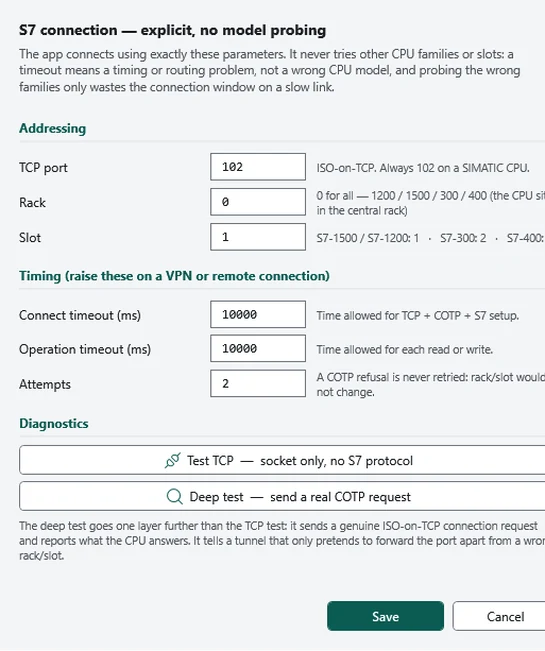
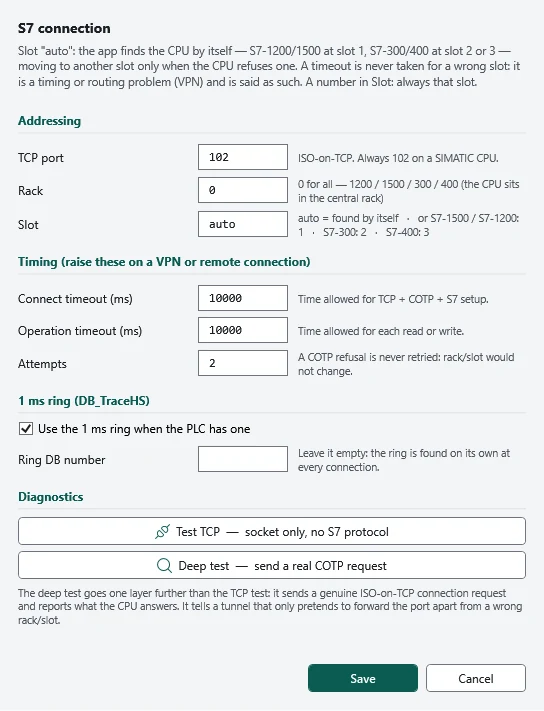
Site: PLC Trace Viewer 2.1.12 (setup, version, size; S7 setup picture with slot auto; recording protection, web Stop, slot auto in datasheet, home, quick start and FAQ)

diff --git a/index.html b/index.html
@@ -28,7 +28,7 @@
   "name":"PlcTraceViewer",
   "applicationCategory":"EngineeringApplication",
   "operatingSystem":"Windows 10, Windows 11 (64-bit)",
-  "softwareVersion":"2.1.11",
+  "softwareVersion":"2.1.12",
   "author":{"@type":"Person","name":"Leonardo Dogariu"},
   "description":"Signal recorder and analyser for S7-300, 400, 1200 and 1500 PLCs: acquisition over PUT/GET, OPC UA and S7comm-Plus, recording with the real read time of every sample, analysis with markers, statistics and 94 functions for computed signals.",
   "offers":{"@type":"Offer","price":"0","priceCurrency":"EUR","description":"Free edition; PRO features enabled by a licence file, activated without internet"}
@@ -39,7 +39,7 @@
 
 <header class="top">
   <div class="wrap">
-    <a class="brand" href="index.html"><img src="assets/img/ptv-mark-64.png" width="30" height="30" alt=""><span>PlcTraceViewer</span><small>2.1.11</small></a>
+    <a class="brand" href="index.html"><img src="assets/img/ptv-mark-64.png" width="30" height="30" alt=""><span>PlcTraceViewer</span><small>2.1.12</small></a>
     <nav>
       <a href="#prodotto" data-it>Prodotto</a><a href="#prodotto" data-en>Product</a>
       <a href="#analisi" data-it>Analisi</a><a href="#analisi" data-en>Analysis</a>
@@ -119,7 +119,7 @@
 <section class="plate-sec">
   <div class="wrap">
     <dl class="plate">
-      <div class="id"><img src="assets/img/ptv-mark-64.png" alt=""><div><b>PlcTraceViewer</b><span><span data-it>versione</span><span data-en>version</span> 2.1.11</span></div></div>
+      <div class="id"><img src="assets/img/ptv-mark-64.png" alt=""><div><b>PlcTraceViewer</b><span><span data-it>versione</span><span data-en>version</span> 2.1.12</span></div></div>
       <div><dt>CPU</dt><dd>S7-300 · 400 · 1200 · 1500</dd></div>
       <div><dt data-it>Collegamento</dt><dt data-en>Connection</dt><dd>PUT/GET · OPC UA · S7comm-Plus</dd></div>
       <div><dt data-it>Progetti TIA</dt><dt data-en>TIA projects</dt><dd>V16 → V21</dd></div>
@@ -553,9 +553,9 @@
       <figure>
         <div class="win flat" style="max-width:440px">
           <div class="win-bar"><img src="assets/img/ptv-mark-64.png" alt=""><span data-it>Collegamento S7</span><span data-en>S7 connection</span><span class="c"><i></i><i></i><i></i></span></div>
-          <img src="assets/img/dialog-s7.webp" width="545" height="651" loading="lazy" decoding="async" data-zoom="assets/img/dialog-s7.webp" alt="S7 connection settings: TCP port, rack, slot, connect and operation timeouts, attempts, TCP test and deep test.">
+          <img src="assets/img/dialog-s7.webp" width="544" height="711" loading="lazy" decoding="async" data-zoom="assets/img/dialog-s7.webp" alt="S7 connection settings: TCP port, rack, slot auto, connect and operation timeouts, attempts, the 1 ms ring, TCP test and deep test.">
         </div>
-        <figcaption><span data-it>Parametri espliciti: il programma non prova a caso altre famiglie di CPU o altri slot.</span><span data-en>Explicit parameters: the program does not guess other CPU families or slots.</span></figcaption>
+        <figcaption><span data-it>Slot &laquo;auto&raquo;: S7-300 o S7-1500, la CPU si riconosce da sola. Un tempo scaduto non viene mai scambiato per uno slot sbagliato.</span><span data-en>Slot &ldquo;auto&rdquo;: S7-300 or S7-1500, the CPU is recognised by itself. A timeout is never taken for a wrong slot.</span></figcaption>
       </figure>
     </div>
   </div>
@@ -581,12 +581,12 @@
         <h3 id="web" style="margin-top:56px"><span data-it>Valori e registrazione dal browser</span><span data-en>Values and recording from a browser</span><span class="pro">PRO</span></h3>
         <p style="color:var(--ink-2)" data-it>Un servizio di Windows pubblica una pagina accessibile da qualsiasi PC della rete di impianto: valori in tempo reale, andamento recente, stato del disco, avvio e arresto della registrazione.</p>
         <p style="color:var(--ink-2)" data-en>A Windows service publishes a page that any PC on the plant network can open: live values, recent trend, disk status, start and stop of the recording.</p>
-        <p style="color:var(--ink-2)" data-it><strong>La registrazione avviata dalla pagina è la stessa dell'applicazione</strong>, non una copia separata: un solo registratore e un solo file.</p>
-        <p style="color:var(--ink-2)" data-en><strong>The recording started from the page is the application's own</strong>, not a separate copy: one recorder and one file.</p>
+        <p style="color:var(--ink-2)" data-it><strong>La registrazione avviata dalla pagina è la stessa dell'applicazione</strong>, non una copia separata: un solo registratore e un solo file. Se la registrazione è protetta da password, anche lo stop dalla pagina la chiede.</p>
+        <p style="color:var(--ink-2)" data-en><strong>The recording started from the page is the application's own</strong>, not a separate copy: one recorder and one file. When the recording is protected by a password, stopping it from the page asks for it too.</p>
         <div class="note warn">
           <b data-it>Solo su una rete di impianto protetta.</b><b data-en>Only on a protected plant network.</b>
-          <span data-it> La pagina non ha autenticazione: chiunque raggiunga la porta vede i valori e può avviare o fermare la registrazione. Non va esposta a internet.</span>
-          <span data-en> The page has no authentication: anyone who can reach the port sees the values and can start or stop the recording. It must not be exposed to the internet.</span>
+          <span data-it> La pagina non ha autenticazione: chiunque raggiunga la porta vede i valori e può avviare la registrazione, e fermarla se non è protetta da password. Non va esposta a internet.</span>
+          <span data-en> The page has no authentication: anyone who can reach the port sees the values and can start the recording, and stop it unless it is protected by a password. It must not be exposed to the internet.</span>
         </div>
         <figure style="max-width:440px">
           <div class="win flat"><img src="assets/img/tip-web.webp" width="440" height="94" loading="lazy" decoding="async" alt="In-app hint for the web dashboard button."></div>
@@ -708,15 +708,15 @@
         </li>
       </ol>
       <div class="dl-card">
-        <h3>PlcTraceViewer 2.1.11</h3>
+        <h3>PlcTraceViewer 2.1.12</h3>
         <p style="color:var(--ink-3);margin:0" data-it>Programma di installazione per Windows</p>
         <p style="color:var(--ink-3);margin:0" data-en>Windows installer</p>
         <dl class="meta">
-          <dt>File</dt><dd>PlcTraceViewer_Setup_v2.1.11.exe</dd>
-          <dt data-it>Dimensione</dt><dt data-en>Size</dt><dd><span data-it>90,2 MB</span><span data-en>90.2 MB</span></dd>
+          <dt>File</dt><dd>PlcTraceViewer_Setup_v2.1.12.exe</dd>
+          <dt data-it>Dimensione</dt><dt data-en>Size</dt><dd><span data-it>90,3 MB</span><span data-en>90.3 MB</span></dd>
           <dt data-it>Sistema</dt><dt data-en>System</dt><dd><span data-it>Windows 10 / 11, 64 bit · porta 102 verso la CPU</span><span data-en>Windows 10 / 11, 64-bit · port 102 to the CPU</span></dd>
         </dl>
-        <a class="btn" href="https://github.com/leo25122/PlcTraceViewer-site/releases/download/v2.1.11/PlcTraceViewer_Setup_v2.1.11.exe">
+        <a class="btn" href="https://github.com/leo25122/PlcTraceViewer-site/releases/download/v2.1.12/PlcTraceViewer_Setup_v2.1.12.exe">
           <svg viewBox="0 0 24 24" fill="none" stroke="currentColor" stroke-width="2" stroke-linecap="round" stroke-linejoin="round"><path d="M12 4v11m0 0 4.5-4.5M12 15l-4.5-4.5M5 20h14"/></svg>
           <span data-it>Scarica per Windows</span><span data-en>Download for Windows</span>
         </a>

diff --git a/datasheet.html b/datasheet.html
@@ -27,7 +27,7 @@
 
 <header class="top">
   <div class="wrap">
-    <a class="brand" href="index.html"><img src="assets/img/ptv-mark-64.png" width="26" height="26" alt=""><span>PlcTraceViewer</span><small>2.1.11</small></a>
+    <a class="brand" href="index.html"><img src="assets/img/ptv-mark-64.png" width="26" height="26" alt=""><span>PlcTraceViewer</span><small>2.1.12</small></a>
     <nav>
       <a href="index.html">Home</a>
       <a href="quickstart.html" data-it>Guida rapida</a><a href="quickstart.html" data-en>Quick start</a>
@@ -67,7 +67,7 @@
 
     <table class="doc-meta">
       <tr><th data-it>Documento</th><th data-en>Document</th><td>DS-PTV-21</td></tr>
-      <tr><th data-it>Versione del programma</th><th data-en>Program version</th><td>2.1.11</td></tr>
+      <tr><th data-it>Versione del programma</th><th data-en>Program version</th><td>2.1.12</td></tr>
       <tr><th data-it>Piattaforma</th><th data-en>Platform</th><td>Windows 10 / 11, 64 bit</td></tr>
       <tr><th data-it>Controllori</th><th data-en>Controllers</th><td>S7-300 / 400 / 1200 / 1500</td></tr>
     </table>
@@ -153,8 +153,8 @@
             <tr><td data-it>Trasporto</td><td data-en>Transport</td><td>ISO-on-TCP<span data-it>, porta 102 (configurabile)</span><span data-en>, port 102 (configurable)</span></td></tr>
             <tr>
               <td data-it>Parametri</td><td data-en>Parameters</td>
-              <td data-it>famiglia CPU, rack, slot, porta, timeout di connessione e di operazione, numero di tentativi</td>
-              <td data-en>CPU family, rack, slot, port, connect and operation timeouts, number of attempts</td>
+              <td data-it>rack, slot (con &laquo;auto&raquo; la CPU si riconosce da sola: S7-300/400 o S7-1200/1500, dal suo codice d'ordine), porta, timeout di connessione e di operazione, numero di tentativi</td>
+              <td data-en>rack, slot (with &ldquo;auto&rdquo; the CPU is recognised by itself: S7-300/400 or S7-1200/1500, from its order number), port, connect and operation timeouts, number of attempts</td>
             </tr>
             <tr>
               <td data-it>Aree leggibili</td><td data-en>Readable areas</td>
@@ -335,6 +335,12 @@
             <tr><td data-it>Gestione dello spazio</td><td data-en>Space management</td>
               <td data-it>conservazione per durata o per spazio; i file più vecchi vengono compressi prima di essere eliminati; la registrazione in corso non viene mai toccata</td>
               <td data-en>retention by age or by space; the oldest files are compressed before being deleted; the recording in progress is never touched</td></tr>
+            <tr><td data-it>Protezione della registrazione</td><td data-en>Recording protection</td>
+              <td data-it>password facoltativa per fermare una registrazione (STOP, scollegamento, chiusura della finestra, Stop dalla dashboard, disconnessione di Windows); spenta finché non viene impostata; dimenticata, si toglie solo a registrazione ferma; tutto senza internet</td>
+              <td data-en>optional password to stop a recording (STOP, disconnect, closing the window, Stop on the dashboard, signing out of Windows); off until one is set; if forgotten, it can be removed only while nothing records; no internet needed</td></tr>
+            <tr><td data-it>Sospensione e sessione di Windows</td><td data-en>Sleep and the Windows session</td>
+              <td data-it>durante la registrazione il PC non va in sospensione da solo; blocco dello schermo e cambio utente non la fermano; al risveglio da una sospensione scelta a mano la lettura riprende da sola e il tempo trascorso resta un vuoto nel file</td>
+              <td data-en>while recording the PC does not go to sleep on its own; locking the screen or switching user does not stop it; after a sleep chosen by hand the reading resumes by itself and the time elapsed stays a gap in the file</td></tr>
             <tr><td data-it>Formati letti</td><td data-en>Formats read</td>
               <td class="mono">.drug · .drug.gz · .csv · .txt</td></tr>
           </table>
@@ -443,8 +449,8 @@
               <td data-it>HTTP sulla porta 8085 (configurabile)</td>
               <td data-en>HTTP on port 8085 (configurable)</td></tr>
             <tr><td data-it>Funzioni</td><td data-en>Functions</td>
-              <td data-it>valori in tempo reale, andamento recente, selezione dei segnali, avvio e arresto della registrazione, stato del disco</td>
-              <td data-en>live values, recent trend, signal selection, start and stop of the recording, disk status</td></tr>
+              <td data-it>valori in tempo reale, andamento recente, selezione dei segnali, avvio e arresto della registrazione (lo stop chiede la password se la registrazione è protetta), stato del disco</td>
+              <td data-en>live values, recent trend, signal selection, start and stop of the recording (stop asks for the password when the recording is protected), disk status</td></tr>
             <tr><td data-it>Autenticazione</td><td data-en>Authentication</td>
               <td data-it>nessuna: solo per reti di impianto protette</td>
               <td data-en>none: for protected plant networks only</td></tr>
@@ -453,8 +459,8 @@
           </table>
           <div class="note" style="margin-top:18px">
             <b data-it>Sicurezza.</b><b data-en>Security.</b>
-            <span data-it> La pagina non ha autenticazione: chiunque raggiunga la porta può vedere i valori e comandare la registrazione. Va usata su una rete di impianto protetta e non va esposta a internet.</span>
-            <span data-en> The page has no authentication: anyone who reaches the port can see the values and control the recording. Use it on a protected plant network and do not expose it to the internet.</span>
+            <span data-it> La pagina non ha autenticazione: chiunque raggiunga la porta può vedere i valori e avviare la registrazione; per fermare una registrazione protetta serve la sua password, che non viaggia sulla rete. Va usata su una rete di impianto protetta e non va esposta a internet.</span>
+            <span data-en> The page has no authentication: anyone who reaches the port can see the values and start the recording; stopping a protected recording needs its password, which does not travel over the network. Use it on a protected plant network and do not expose it to the internet.</span>
           </div>
         </article>
 

diff --git a/faq.html b/faq.html
@@ -21,7 +21,7 @@
 
 <header class="top">
   <div class="wrap">
-    <a class="brand" href="index.html"><img src="assets/img/ptv-mark-64.png" width="26" height="26" alt=""><span>PlcTraceViewer</span><small>2.1.11</small></a>
+    <a class="brand" href="index.html"><img src="assets/img/ptv-mark-64.png" width="26" height="26" alt=""><span>PlcTraceViewer</span><small>2.1.12</small></a>
     <nav>
       <a href="index.html">Home</a>
       <a href="quickstart.html" data-it>Guida rapida</a><a href="quickstart.html" data-en>Quick start</a>
@@ -185,6 +185,18 @@
               <details id="d-reinstallazione">
                 <summary><span data-it>Cosa succede se reinstallo Windows o cambio PC?</span><span data-en>What happens if I reinstall Windows or change PC?</span></summary>
                 <div class="a"><span data-it>Il codice macchina può cambiare e la licenza resta legata al codice del PC precedente. Invia una nuova richiesta dal portale con il nuovo codice e chiedi il trasferimento: la licenza precedente viene disattivata quando il trasferimento è completato. Sostituire un disco o aggiungere memoria non cambia il codice macchina. In una macchina virtuale il codice cambia anche quando la macchina virtuale viene copiata oppure spostata su un PC con un processore diverso.</span><span data-en>The Machine Code can change and the licence stays bound to the previous PC's code. Send a new request from the portal with the new code and ask for a transfer: the previous licence is disabled when the transfer is completed. Replacing a disk or adding memory does not change the Machine Code. In a virtual machine the code also changes when the virtual machine is copied, or moved to a PC with a different processor.</span></div>
+              </details>
+              <details id="d-protezione">
+                <summary><span data-it>Posso impedire che qualcuno fermi una registrazione?</span><span data-en>Can I stop someone from ending a recording?</span></summary>
+                <div class="a"><span data-it>Sì: in <b>Impostazioni → Live → Recording protection</b> spunta la casella e imposta una password (almeno 8 caratteri). Da quel momento STOP REC, lo scollegamento, la chiusura della finestra Live, lo Stop dalla dashboard web e la disconnessione di Windows chiedono la password; cinque password sbagliate bloccano il controllo per 30 secondi. Finché non c'è una password non viene chiesto nulla. Se la dimentichi, <b>I forgot the password…</b> toglie la protezione quando nessuna registrazione è in corso. Windows permette di chiedere, non di rifiutare: chiudere PTV dal Task Manager o spegnere il PC fermano comunque la registrazione, con i file chiusi interi quando Windows lo comunica.</span><span data-en>Yes: in <b>Settings → Live → Recording protection</b> tick the box and set a password (at least 8 characters). From then on STOP REC, Disconnect, closing the Live window, Stop on the web dashboard and signing out of Windows ask for it; five wrong passwords lock the check for 30 seconds. Until a password is set nothing is asked. If you forget it, <b>I forgot the password…</b> removes the protection while no recording is running. Windows lets an application ask, not refuse: ending PTV from the Task Manager or switching the PC off still end the recording, with the files closed whole whenever Windows says so.</span></div>
+              </details>
+              <details id="d-sospensione">
+                <summary><span data-it>Cosa succede se il PC va in sospensione o mi disconnetto da Windows?</span><span data-en>What happens if the PC goes to sleep or I sign out of Windows?</span></summary>
+                <div class="a"><span data-it>Durante una registrazione il PC non va in sospensione da solo. Una sospensione scelta a mano, l'ibernazione o la batteria scarica non si possono impedire: il PLC non viene letto nel frattempo, la lettura riprende da sola al risveglio e il tempo trascorso resta nel file come un vuoto, all'ora vera. Bloccare lo schermo o cambiare utente non ferma la registrazione. Disconnettersi o spegnere la ferma e chiude i file; con la protezione attiva Windows prima mostra l'avviso di PTV.</span><span data-en>While recording, the PC does not go to sleep on its own. A sleep chosen by hand, hibernation or a flat battery cannot be prevented: the PLC is not read meanwhile, reading resumes by itself on waking and the time elapsed stays in the file as a gap, at its real time. Locking the screen or switching user does not stop the recording. Signing out or shutting down stops it and closes the files; with the protection on, Windows first shows PTV's notice.</span></div>
+              </details>
+              <details id="d-slot">
+                <summary><span data-it>Devo impostare il modello di CPU, il rack e lo slot?</span><span data-en>Do I have to set the CPU model, rack and slot?</span></summary>
+                <div class="a"><span data-it>No: con lo slot su <b>auto</b> (il valore iniziale in S7 Setup) il programma trova da solo una S7-300/400 o una S7-1200/1500 e la riconosce dal suo codice d'ordine. Cambia slot solo quando la CPU ne rifiuta uno; un tempo scaduto, per esempio su una VPN lenta, viene detto come tale e non scambiato per uno slot sbagliato. Con un numero nel campo Slot si usa sempre quello.</span><span data-en>No: with Slot on <b>auto</b> (the default in S7 setup) the program finds an S7-300/400 or an S7-1200/1500 by itself and recognises it from its order number. It changes slot only when the CPU refuses one; a timeout, for example over a slow VPN, is reported as such and never taken for a wrong slot. With a number in Slot that slot is always used.</span></div>
               </details>
               <details id="d-guasto">
                 <summary><span data-it>Il PC si è guastato o ho perso il file della licenza: cosa faccio?</span><span data-en>The PC failed or I lost the licence file: what do I do?</span></summary>

diff --git a/quickstart.html b/quickstart.html
@@ -27,7 +27,7 @@
 
 <header class="top">
   <div class="wrap">
-    <a class="brand" href="index.html"><img src="assets/img/ptv-mark-64.png" width="26" height="26" alt=""><span>PlcTraceViewer</span><small>2.1.11</small></a>
+    <a class="brand" href="index.html"><img src="assets/img/ptv-mark-64.png" width="26" height="26" alt=""><span>PlcTraceViewer</span><small>2.1.12</small></a>
     <nav>
       <a href="index.html">Home</a>
       <a href="quickstart.html" class="here" data-it>Guida rapida</a><a href="quickstart.html" class="here" data-en>Quick start</a>
@@ -97,10 +97,10 @@
         <article class="doc-sec" id="installa">
           <h2 data-it>1. Installazione</h2><h2 data-en>1. Installation</h2>
           <p data-it>
-            Scarica <span class="mono">PlcTraceViewer_Setup_v2.1.11.exe</span> e avvialo. Se Windows SmartScreen segnala che l'editore non è riconosciuto, scegli <em>Ulteriori informazioni → Esegui comunque</em>: il file di installazione non è firmato con un certificato commerciale e si scarica dalla pagina delle release su GitHub.
+            Scarica <span class="mono">PlcTraceViewer_Setup_v2.1.12.exe</span> e avvialo. Se Windows SmartScreen segnala che l'editore non è riconosciuto, scegli <em>Ulteriori informazioni → Esegui comunque</em>: il file di installazione non è firmato con un certificato commerciale e si scarica dalla pagina delle release su GitHub.
           </p>
           <p data-en>
-            Download <span class="mono">PlcTraceViewer_Setup_v2.1.11.exe</span> and run it. If Windows SmartScreen reports that the publisher is not recognised, choose <em>More info → Run anyway</em>: the installer is not signed with a commercial certificate and is downloaded from the GitHub releases page.
+            Download <span class="mono">PlcTraceViewer_Setup_v2.1.12.exe</span> and run it. If Windows SmartScreen reports that the publisher is not recognised, choose <em>More info → Run anyway</em>: the installer is not signed with a commercial certificate and is downloaded from the GitHub releases page.
           </p>
           <p data-it>
             Il runtime è incluso nell'installazione. Se scegli di installare la dashboard web, il servizio viene registrato e avviato automaticamente. Per un aggiornamento, chiudi prima la versione precedente.
@@ -134,12 +134,12 @@
             Before pressing <em>Connect</em>, use <b>Test TCP</b> to check that port 102 is reachable. The <b>deep test</b> also sends an ISO-on-TCP connection request: it detects wrong rack and slot settings and tunnels that forward port 102 without an S7 CPU on the other side.
           </p>
           <figure class="shot" style="max-width:420px;margin-top:14px" data-zoom="assets/img/dialog-s7.webp">
-            <img src="assets/img/dialog-s7.webp" width="545" height="651" loading="lazy" decoding="async"
-                 alt="S7 connection settings: port, rack, slot, timeouts, attempts and the two connection tests.">
+            <img src="assets/img/dialog-s7.webp" width="544" height="711" loading="lazy" decoding="async"
+                 alt="S7 connection settings: port, rack, slot auto, timeouts, attempts, the 1 ms ring and the two connection tests.">
           </figure>
           <figcaption style="max-width:420px">
-            <span data-it>Slot 1 per S7-1500 e S7-1200, slot 2 per S7-300, slot 3 per S7-400. Rack 0 per tutte.</span>
-            <span data-en>Slot 1 for S7-1500 and S7-1200, slot 2 for S7-300, slot 3 for S7-400. Rack 0 for all.</span>
+            <span data-it>Slot &laquo;auto&raquo; (il valore iniziale): la CPU si riconosce da sola, S7-300 o S7-1500. Con un numero si usa sempre quello slot: 1 per S7-1500 e S7-1200, 2 per S7-300, 3 per S7-400. Rack 0 per tutte.</span>
+            <span data-en>Slot &ldquo;auto&rdquo; (the default): the CPU is recognised by itself, S7-300 or S7-1500. With a number that slot is always used: 1 for S7-1500 and S7-1200, 2 for S7-300, 3 for S7-400. Rack 0 for all.</span>
           </figcaption>
           <div class="note" style="margin-top:20px">
             <b data-it>Con VPN o collegamento remoto:</b><b data-en>With a VPN or a remote link:</b>
@@ -317,10 +317,10 @@
                  alt="In-app hint for opening the web dashboard.">
           </figure>
           <p data-it>
-            Il pulsante <b>Web</b> apre la pagina; il servizio è già attivo in background sulla porta 8085. Da qualsiasi PC della rete di impianto si vedono i valori correnti e si comanda la registrazione <b>dell'applicazione</b>, non una copia. La pagina non ha autenticazione: usala solo su una rete di impianto protetta.
+            Il pulsante <b>Web</b> apre la pagina; il servizio è già attivo in background sulla porta 8085. Da qualsiasi PC della rete di impianto si vedono i valori correnti e si comanda la registrazione <b>dell'applicazione</b>, non una copia; una registrazione protetta si ferma solo con la sua password. La pagina non ha autenticazione: usala solo su una rete di impianto protetta.
           </p>
           <p data-en>
-            The <b>Web</b> button opens the page; the service is already running in the background on port 8085. From any PC on the plant network you see the current values and control the recording <b>of the application</b>, not a copy. The page has no authentication: use it only on a protected plant network.
+            The <b>Web</b> button opens the page; the service is already running in the background on port 8085. From any PC on the plant network you see the current values and control the recording <b>of the application</b>, not a copy; a protected recording stops only with its password. The page has no authentication: use it only on a protected plant network.
           </p>
         </article>
 

diff --git a/404.html b/404.html
@@ -17,7 +17,7 @@
 
 <header class="top">
   <div class="wrap">
-    <a class="brand" href="/PlcTraceViewer-site/"><img src="/PlcTraceViewer-site/assets/img/ptv-mark-64.png" width="26" height="26" alt=""><span>PlcTraceViewer</span><small>2.1.11</small></a>
+    <a class="brand" href="/PlcTraceViewer-site/"><img src="/PlcTraceViewer-site/assets/img/ptv-mark-64.png" width="26" height="26" alt=""><span>PlcTraceViewer</span><small>2.1.12</small></a>
     <div class="tools" style="margin-left:auto">
       <div class="lang" role="group" aria-label="Lingua / Language">
         <button type="button" data-lang-btn="it" aria-pressed="true">IT</button><span>/</span><button type="button" data-lang-btn="en" aria-pressed="false">EN</button>

diff --git a/tools/build-assets.py b/tools/build-assets.py
@@ -56,7 +56,7 @@ JOBS = [
     ("analysis-summary",  S("161135"), (1694, 75,  1919,  800),  286),
 
     # ── dialogs and in-app help ────────────────────────────────────────────
-    ("dialog-s7",         S("161401"), None, 545),
+    ("dialog-s7",         os.path.join(SRC, "S7Settings 2026-10-21 uisnap 1920x1080 100.png"), None, 544),   # 2.1.12: slot "auto", 1 ms ring
     ("dialog-ring",       S("161346"), None, 624),
     ("tip-import-tags",   S("161318"), None, 589),
     ("tip-tia-project",   S("161323"), None, 668),
